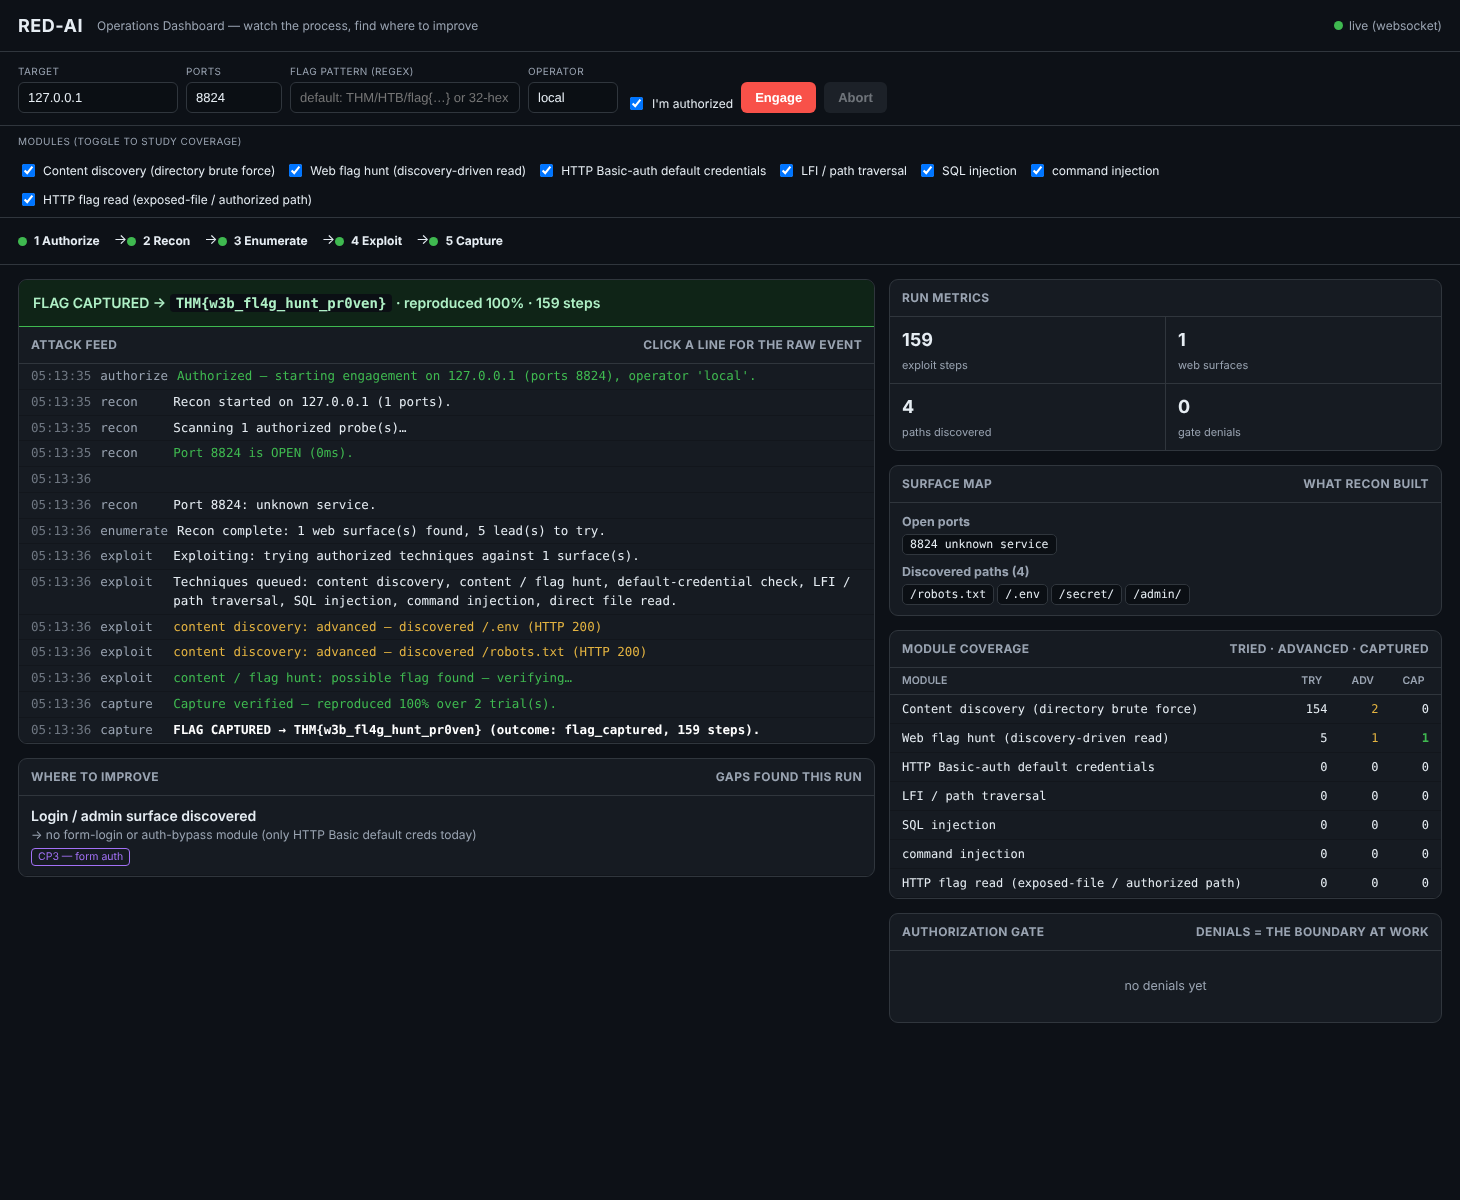
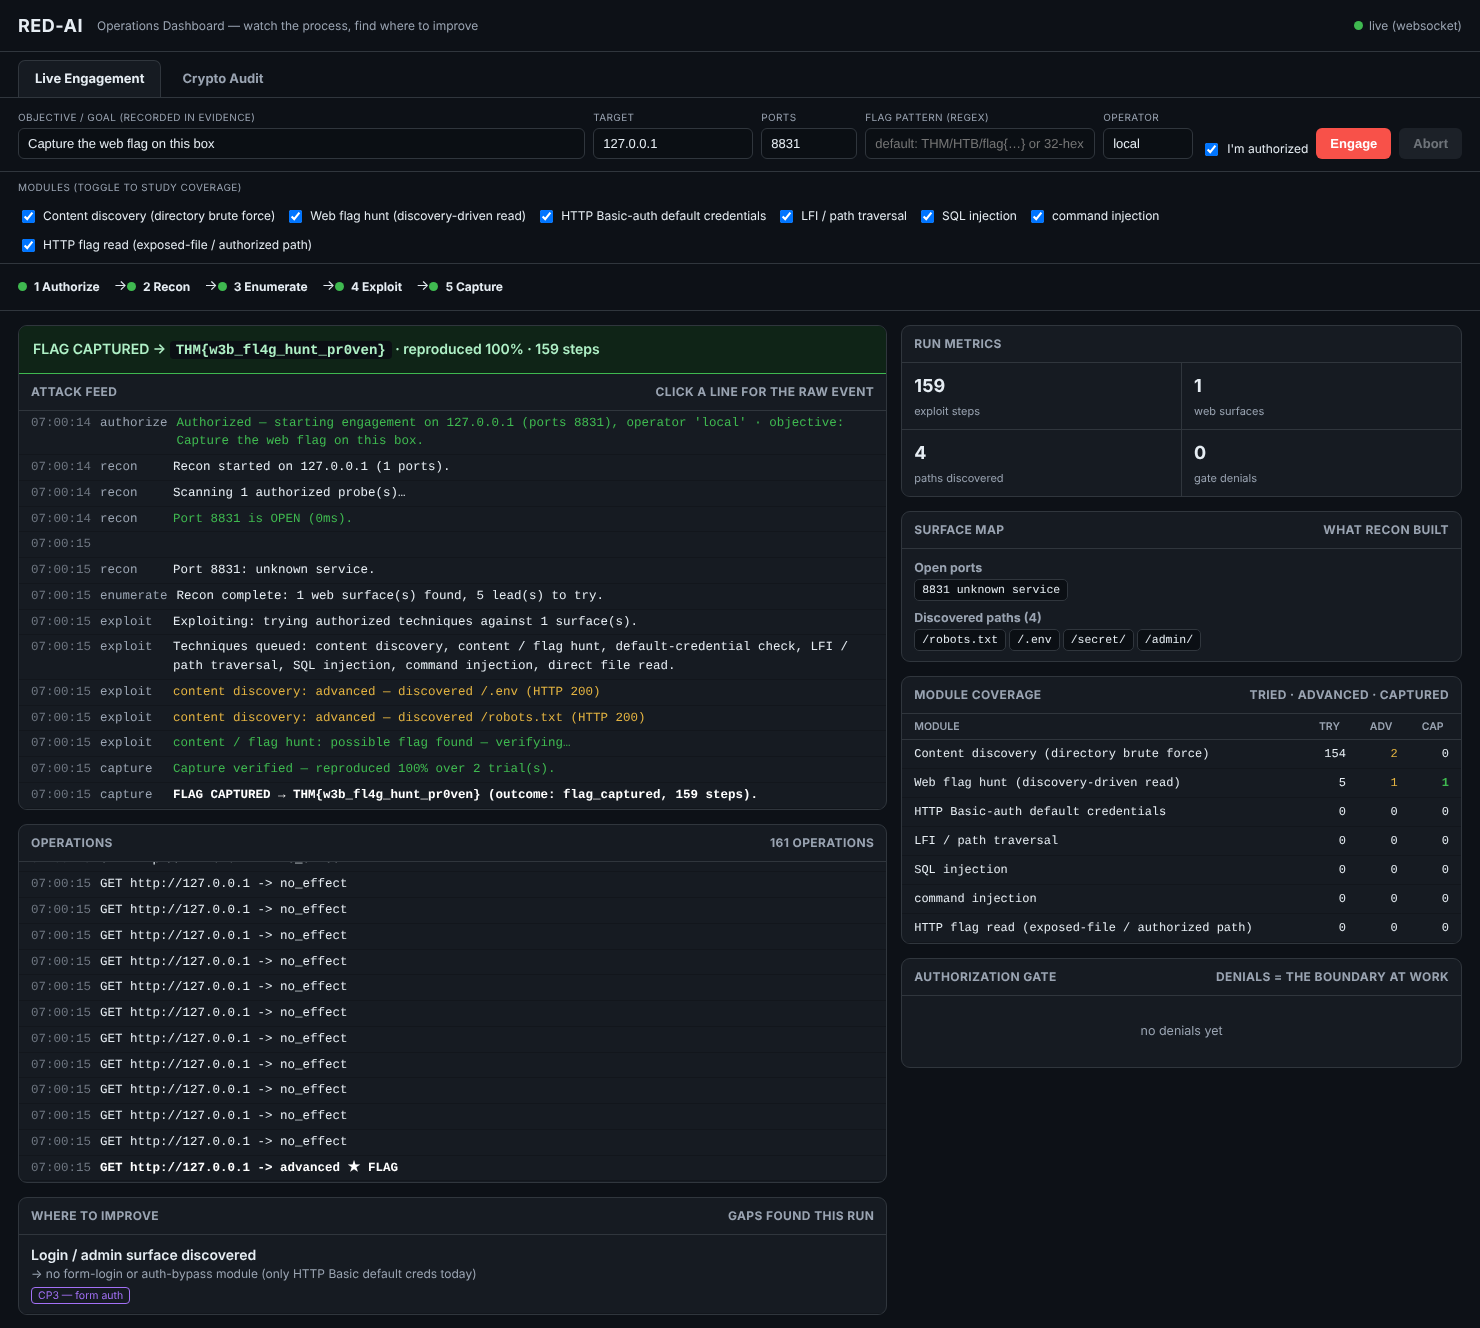
feat(web): end-to-end dashboard — Crypto Audit tab, objective input, operations log
Completes the dashboard as the one tool to run on your PC.

- Crypto Audit tab: paste ciphertext samples (hex/base64/raw) + optional RSA
  n/e/c, press Analyze, and the recovered plaintext renders as the proof — over
  the same WebSocket (action "crypto") with an /api/crypto polling fallback.
  Offline; only yields on misused crypto.
- Objective / goal field: free-text intent, recorded in the signed attestation
  and evidence (auditable) and shown in the feed. Context, not an autonomous
  planner — the pipeline stays deterministic.
- Operations log panel: the literal commands/requests RED-AI runs, live
  (tcp-connect host:port, GET http://host/path -> outcome, tls-handshake ...),
  so you monitor HOW it works, not just results. Shaper now also recovers the
  path from a step's observation so each op line shows the real URL.
- Two-tab layout (Live Engagement / Crypto Audit); objective threaded through
  engage_core -> hub -> annotate.

Proven end to end in a headless browser over WebSocket: ran an engagement (flag
captured, objective + 161 live operations shown) and a crypto audit (recovered a
card number from base64 and a password from single-byte XOR). 221 offline tests;
range still clears L1-L9, 0 false positives. Docs: docs/WEB_UI.md + screenshots.

Claude-Session: https://claude.ai/code/session_01Xv4sG4y6GM2Zx1LZuqMxqx

diff --git a/red_ai/web/dashboard.py b/red_ai/web/dashboard.py
@@ -71,13 +71,37 @@ DASHBOARD_HTML = r"""<!doctype html>
   .gap .c{display:inline-block;margin-top:3px;font-size:10.5px;color:var(--vi);border:1px solid var(--vi);
     border-radius:4px;padding:0 6px}
   .empty{color:var(--mu);padding:16px;text-align:center}
+  .tabs{display:flex;gap:4px;padding:8px 18px 0;border-bottom:1px solid var(--ln)}
+  .tab{padding:8px 16px;font-size:13px;font-weight:700;color:var(--mu);cursor:pointer;
+    border:1px solid transparent;border-bottom:none;border-radius:7px 7px 0 0}
+  .tab.on{color:var(--tx);background:var(--p);border-color:var(--ln)}
+  .cwrap{max-width:1100px;padding:16px 18px;display:grid;grid-template-columns:1fr 1fr;gap:14px}
+  @media(max-width:820px){.cwrap{grid-template-columns:1fr}}
+  textarea{width:100%;min-height:200px;background:var(--p2);border:1px solid var(--ln);color:var(--tx);
+    border-radius:7px;padding:10px;font-family:ui-monospace,Menlo,Consolas,monospace;font-size:12.5px;resize:vertical}
+  .rsa{display:flex;gap:8px;margin-top:8px} .rsa input{flex:1;min-width:0}
+  .cfind{border:1px solid var(--ln);border-radius:8px;margin:10px 12px;overflow:hidden}
+  .cfind .hd{padding:7px 10px;font-size:12px;display:flex;gap:8px;align-items:center;border-bottom:1px solid var(--ln)}
+  .sev{font-size:10px;font-weight:700;padding:1px 7px;border-radius:4px}
+  .sev.critical{background:#3d1416;color:#ffb0ab} .sev.high{background:#3a2a0c;color:#f0c674}
+  .sev.medium{background:#15243d;color:#9cc4ff}
+  .cfind .bd{padding:8px 10px;font-size:12.5px}
+  .recov{background:#0f2417;border:1px solid var(--gn);color:#aff0c6;border-radius:6px;padding:8px 10px;
+    margin:6px 0;font-family:ui-monospace,monospace;font-size:12.5px;word-break:break-word;white-space:pre-wrap}
+  .cfind .mu{color:var(--mu);font-size:11.5px;margin-top:3px}
 </style></head>
 <body>
 <header>
   <h1>RED-AI</h1><span class="sub">Operations Dashboard — watch the process, find where to improve</span>
   <span class="ws" id="wsind"><span class="d"></span><span id="wstxt">connecting…</span></span>
 </header>
+<div class="tabs">
+  <div class="tab on" id="tab-engage" onclick="showView('engage')">Live Engagement</div>
+  <div class="tab" id="tab-crypto" onclick="showView('crypto')">Crypto Audit</div>
+</div>
+<div id="view-engage">
 <div class="bar">
+  <div class="fld" style="flex:1 1 240px;min-width:200px"><label>Objective / goal (recorded in evidence)</label><input id="objective" type="text" placeholder="e.g. capture the web flag on this box"></div>
   <div class="fld"><label>Target</label><input id="target" type="text" placeholder="10.10.x.x"></div>
   <div class="fld"><label>Ports</label><input id="ports" type="text" value="1-1000"></div>
   <div class="fld"><label>Flag pattern (regex)</label><input id="flagpat" type="text" placeholder="default: THM/HTB/flag{…} or 32-hex"></div>
@@ -95,6 +119,10 @@ DASHBOARD_HTML = r"""<!doctype html>
       <div class="banner" id="banner"></div>
       <h3>Attack feed <span class="k" id="feedcount">click a line for the raw event</span></h3>
       <div class="feed" id="feed"><div class="empty">Enter a target and press Engage.</div></div>
+    </div>
+    <div class="card">
+      <h3>Operations <span class="k" id="opcount">the literal commands / requests RED-AI runs</span></h3>
+      <div class="feed" id="ops" style="max-height:320px"><div class="empty">each network operation RED-AI performs appears here, as it happens</div></div>
     </div>
     <div class="card">
       <h3>Where to improve <span class="k">gaps found this run</span></h3>
@@ -123,11 +151,35 @@ DASHBOARD_HTML = r"""<!doctype html>
     </div>
   </div>
 </div>
+</div><!-- view-engage -->
+
+<div id="view-crypto" hidden>
+  <div class="cwrap">
+    <div class="card">
+      <h3>Ciphertext samples <span class="k">one per line — hex, base64, or raw</span></h3>
+      <div style="padding:10px 12px">
+        <textarea id="samples" placeholder="Paste ciphertext samples, one per line.&#10;hex / base64 / raw text all accepted."></textarea>
+        <div class="rsa">
+          <input id="rn" type="text" placeholder="RSA n (optional)">
+          <input id="re" type="text" placeholder="e">
+          <input id="rc" type="text" placeholder="c">
+        </div>
+        <button id="analyze" style="margin-top:10px;background:var(--vi)">Analyze &amp; recover plaintext</button>
+        <p class="mu" style="color:var(--mu);font-size:12px;margin:8px 0 0">Offline, on your machine. Recovers plaintext only when the crypto is misused; correct AES-GCM / TLS 1.3 will not yield — that discipline is the point.</p>
+      </div>
+    </div>
+    <div class="card">
+      <h3>Result <span class="k">recovered plaintext is the proof</span></h3>
+      <div class="banner" id="cbanner"></div>
+      <div id="cfindings"><div class="empty">results appear here after you analyze</div></div>
+    </div>
+  </div>
+</div>
 
 <script>
 const STAGES=[["authorize","Authorize"],["recon","Recon"],["enumerate","Enumerate"],["exploit","Exploit"],["capture","Capture"]];
 const $=id=>document.getElementById(id);
-let ws=null, runId=null, roster=[], counters={}, ports={}, services={}, paths=new Set(), params=new Set(), denies=[], pollTimer=null, since=0;
+let ws=null, runId=null, roster=[], counters={}, ports={}, services={}, paths=new Set(), params=new Set(), denies=[], pollTimer=null, since=0, curTarget="", opN=0;
 
 // ---- stages ----
 $("stages").innerHTML=STAGES.map((s,i)=>`<div class="stage" data-s="${s[0]}"><span class="d"></span><b>${i+1} ${s[1]}</b></div>`+(i<4?'<span class="ar">→</span>':'')).join("");
@@ -147,6 +199,8 @@ function reset(){counters={};ports={};services={};paths=new Set();params=new Set
   $("feed").innerHTML="";$("banner").className="banner";$("gaps").className="gaps";$("gaps").innerHTML="";
   $("gapsempty").style.display="block";$("gate").innerHTML='<div class="empty">no denials yet</div>';
   $("surface").innerHTML='<div class="empty">scanning…</div>';
+  $("ops").innerHTML='<div class="empty">each network operation RED-AI performs appears here, as it happens</div>';
+  opN=0;$("opcount").textContent="the literal commands / requests RED-AI runs";
   ["m_steps","m_surf","m_paths","m_deny"].forEach(i=>$(i).textContent="0");
   document.querySelectorAll('.stage').forEach(el=>el.classList.remove('on','done'));
   roster.forEach(m=>{$("t_"+m.id).textContent="0";$("a_"+m.id).textContent="0";$("c_"+m.id).textContent="0";});}
@@ -167,9 +221,34 @@ function renderSurface(){let h="";
   if(params.size){h+='<div style="margin-top:8px"><b class="k">Parameters</b><br>'+[...params].map(p=>`<span class="chip">${p}</span>`).join("")+'</div>';}
   $("surface").innerHTML=h||'<div class="empty">nothing yet</div>';}
 
+// ---- operations log: the literal commands / requests RED-AI runs ----
+function opLine(rec){const d=rec.data||{},t=curTarget||"target";
+  if(rec.kind==="probe"&&d.state==="open")return `tcp-connect ${t}:${d.port}   -> open (${d.latency_ms}ms)`;
+  if(rec.kind==="web_enum")return `GET  http://${t}:${d.port}/   -> HTTP ${(d.root||{}).status}`;
+  if(rec.kind==="tls_posture")return `tls-handshake ${t}:${d.port}   [${(d.accepted||[]).join(', ')}]`;
+  if(rec.kind==="step"){const extra=(d.obs&&/via/.test(d.obs))?('  « '+d.obs+' »'):'';
+    return `GET  http://${t}${d.path||''}${extra}   -> ${d.outcome}${d.flag_claimed?'  ★ FLAG':''}`;}
+  return null;}
+function addOp(rec){const line=opLine(rec);if(!line)return;const o=$("ops");const e=o.querySelector('.empty');if(e)e.remove();
+  const row=document.createElement('div');row.className='r'+(rec.data&&rec.data.flag_claimed?' lv-flag':'');
+  row.innerHTML=`<span class="tm">${rec.t||''}</span><span class="tx"></span>`;row.querySelector('.tx').textContent=line;
+  o.appendChild(row);o.scrollTop=o.scrollHeight;opN++;$("opcount").textContent=opN+" operations";}
+
+// ---- views + crypto audit ----
+function showView(v){$("view-engage").hidden=v!=='engage';$("view-crypto").hidden=v!=='crypto';
+  $("tab-engage").classList.toggle('on',v==='engage');$("tab-crypto").classList.toggle('on',v==='crypto');}
+function renderCrypto(rep){const b=$("cbanner");b.className='banner '+(rep.broke?'flag':'warn');b.textContent=rep.verdict;
+  const el=$("cfindings");
+  if(!rep.findings.length){el.innerHTML='<div class="empty">No weakness demonstrated. (Absence of a break is NOT a proof of safety.)</div>';return;}
+  el.innerHTML=rep.findings.map(f=>`<div class="cfind"><div class="hd"><span class="sev ${f.severity}">${f.severity.toUpperCase()}</span><b>${f.class}</b><span class="mu">${f.method}</span></div>
+    <div class="bd">${f.recovered?'<div class="mu">RECOVERED PLAINTEXT (proof):</div><div class="recov"></div>':''}
+    <div class="mu">${f.evidence}</div><div class="mu">fix: ${f.remediation}</div><div class="mu">ref: ${f.reference}</div></div></div>`).join("");
+  const recs=rep.findings.filter(f=>f.recovered),nodes=el.querySelectorAll('.recov');
+  recs.forEach((f,i)=>{if(nodes[i])nodes[i].textContent=f.recovered;});}
+
 // ---- route one record ----
 function handle(rec){
-  addFeed(rec);const d=rec.data||{};
+  addFeed(rec);addOp(rec);const d=rec.data||{};
   if(rec.kind==="probe"&&d.state==="open"){ports[d.port]=1;renderSurface();}
   else if(rec.kind==="finding"){ports[d.port]=1;if(d.service)services[d.port]=d.service;renderSurface();}
   else if(rec.kind==="web_enum"){(d.paths||[]).forEach(p=>paths.add(p));(d.params||[]).forEach(p=>params.add(p));
@@ -205,6 +284,7 @@ function startWS(){try{ws=new WebSocket((location.protocol==="https:"?"wss://":"
     else if(m.type==="started"){runId=m.run;}
     else if(m.type==="event"){handle(m.rec);}
     else if(m.type==="done"){done(m.result,m.gaps);}
+    else if(m.type==="crypto_result"){renderCrypto(m.report);}
     else if(m.type==="error"){done({captured:false,outcome:m.error,steps:0},[]);}};}
 function fallback(){ // load modules over HTTP if WS never came up
   if(!roster.length)fetch("/api/modules").then(r=>r.json()).then(j=>{roster=j.modules;renderMods();});
@@ -217,13 +297,22 @@ function stopPoll(){if(pollTimer){clearInterval(pollTimer);pollTimer=null;}}
 $("go").onclick=()=>{const target=$("target").value.trim();
   if(!target)return alert("Enter a target IP or host.");
   if(!$("auth").checked)return alert("Confirm you are authorized to test this target.");
-  reset();$("go").disabled=true;$("stop").disabled=false;
-  const params={target,ports:$("ports").value.trim()||"1-1000",operator:$("operator").value.trim()||"local",
-    flag_pattern:$("flagpat").value.trim()||null,enabled_modules:enabledMods(),authorized:true};
+  reset();curTarget=target;$("go").disabled=true;$("stop").disabled=false;
+  const params={target,objective:$("objective").value.trim(),ports:$("ports").value.trim()||"1-1000",
+    operator:$("operator").value.trim()||"local",flag_pattern:$("flagpat").value.trim()||null,
+    enabled_modules:enabledMods(),authorized:true};
   if(ws&&ws.readyState===1){params.action="engage";ws.send(JSON.stringify(params));}
   else{fetch("/api/engage",{method:"POST",headers:{"Content-Type":"application/json"},body:JSON.stringify(params)})
     .then(r=>r.json()).then(j=>{if(j.error){done({captured:false,outcome:j.error,steps:0},[]);return;}runId=j.run_id;startPoll(j.run_id);});}};
 $("stop").onclick=()=>{if(ws&&ws.readyState===1)ws.send(JSON.stringify({action:"abort",run:runId}));};
+$("analyze").onclick=()=>{const samples=$("samples").value.split("\n").map(s=>s.trim()).filter(Boolean);
+  if(!samples.length)return alert("Paste at least one ciphertext sample.");
+  const rsa=($("rn").value.trim()&&$("re").value.trim()&&$("rc").value.trim())?
+    {n:$("rn").value.trim(),e:$("re").value.trim(),c:$("rc").value.trim()}:null;
+  $("cfindings").innerHTML='<div class="empty">analyzing…</div>';$("cbanner").className="banner";
+  if(ws&&ws.readyState===1){ws.send(JSON.stringify({action:"crypto",samples,rsa}));}
+  else{fetch("/api/crypto",{method:"POST",headers:{"Content-Type":"application/json"},body:JSON.stringify({samples,rsa})})
+    .then(r=>r.json()).then(j=>renderCrypto(j.report));}};
 
 startWS();
 // if WS didn't connect within 2s, make sure modules still load

diff --git a/red_ai/engage.py b/red_ai/engage.py
@@ -64,11 +64,16 @@ def engage_core(*, root, target, ports="80,8080,8000,8888,443",
                 flag_pattern=DEFAULT_FLAG_PATTERN, env="authorized_lab",
                 attestation="Authorized lab/CTF engagement (operator-attested).",
                 allow_production=False, max_steps=400, max_seconds=900,
-                operator=DEFAULT_OPERATOR, enabled_modules=(), on_event=None,
-                verbose=False) -> dict:
+                operator=DEFAULT_OPERATOR, enabled_modules=(), objective="",
+                on_event=None, verbose=False) -> dict:
     """Run one engagement. Returns a result dict (see keys at the bottom)."""
     root = Path(root)
     flag_pattern = flag_pattern or DEFAULT_FLAG_PATTERN   # None/empty -> default
+    # The operator's stated objective is recorded in the signed attestation (and
+    # the evidence), so a run's intent is auditable. It is context, not an
+    # autonomous planner: the pipeline stays deterministic.
+    if objective:
+        attestation = f"{attestation} | objective: {objective}"
 
     # --- authorization preconditions -------------------------------------
     keyring = Keyring(root)
@@ -97,7 +102,7 @@ def engage_core(*, root, target, ports="80,8080,8000,8888,443",
     valid_until = (now() + timedelta(hours=2)).isoformat()
 
     emit("engage_started", {"target": target, "ports": ports, "env": env,
-                            "operator": operator}, "engage")
+                            "operator": operator, "objective": objective}, "engage")
 
     # --- 1) RECON --------------------------------------------------------
     recon_scope = ReconScope.build(

diff --git a/red_ai/web/server.py b/red_ai/web/server.py
@@ -65,13 +65,17 @@ class _Handler(BaseHTTPRequestHandler):
 
     def do_POST(self):
         u = urlparse(self.path)
-        if u.path != "/api/engage":
+        if u.path not in ("/api/engage", "/api/crypto"):
             return self._send(404, {"error": "not found"})
         try:
             length = int(self.headers.get("Content-Length", 0))
             params = json.loads(self.rfile.read(length) or b"{}")
         except Exception:
             return self._send(400, {"error": "bad request body"})
+        if u.path == "/api/crypto":
+            from red_ai.crypto.analyze import analyze_samples
+            rep = analyze_samples(params.get("samples") or [], rsa=params.get("rsa"))
+            return self._send(200, {"report": rep})
         err = _validate(params)
         if err:
             return self._send(400, {"error": err})
@@ -110,6 +114,10 @@ class _Handler(BaseHTTPRequestHandler):
                     _HUB.start(m)
                 elif action == "abort":
                     _HUB.abort(m.get("run", ""))
+                elif action == "crypto":
+                    from red_ai.crypto.analyze import analyze_samples
+                    rep = analyze_samples(m.get("samples") or [], rsa=m.get("rsa"))
+                    conn.send(json.dumps({"type": "crypto_result", "report": rep}))
                 elif action == "ping":
                     conn.send(json.dumps({"type": "pong"}))
         finally:

diff --git a/red_ai/web/shaper.py b/red_ai/web/shaper.py
@@ -12,6 +12,8 @@ checkpoint it belongs to. That is the signal for where to improve the engine.
 """
 from __future__ import annotations
 
+import re
+
 from red_ai.web.annotate import annotate
 
 # Non-web services worth calling out as "found, but no capability yet".
@@ -69,6 +71,11 @@ def shape_event(ev: dict) -> dict:
             # "discovered /x (HTTP 200)" -> /x
             rest = proves.split(" ", 1)[1]
             path = rest.split(" ", 1)[0]
+        if not path:
+            # most step observations carry the path, e.g. "HTTP 404 /secret"
+            m = re.search(r"(/\S*)", proves or obs0 or "")
+            if m:
+                path = m.group(1).rstrip(".,);")
         data = {"module": p.get("module"), "outcome": p.get("outcome"),
                 "flag_claimed": p.get("flag_claimed"), "proves": proves,
                 "obs": obs0, "path": path}

diff --git a/red_ai/web/annotate.py b/red_ai/web/annotate.py
@@ -30,9 +30,10 @@ def annotate(ev: dict) -> "dict | None":
 
     # --- engage-level phase markers (synthetic) --------------------------
     if kind == "engage_started":
+        obj = f" · objective: {p.get('objective')}" if p.get("objective") else ""
         return _line("authorize", "good",
                      f"Authorized — starting engagement on {p.get('target')} "
-                     f"(ports {p.get('ports')}), operator '{p.get('operator')}'.")
+                     f"(ports {p.get('ports')}), operator '{p.get('operator')}'{obj}.")
     if kind == "recon_done":
         return _line("enumerate", "info",
                      f"Recon complete: {p.get('web_surfaces', 0)} web surface(s) found, "

diff --git a/red_ai/web/hub.py b/red_ai/web/hub.py
@@ -80,6 +80,7 @@ class Hub:
                 attestation=params["attestation"],
                 operator=params.get("operator", "local"),
                 enabled_modules=tuple(params.get("enabled_modules") or ()),
+                objective=params.get("objective", ""),
                 on_event=on_event)
             gaps = gap_analysis(res)
             summary = {"status": res["status"], "captured": res["captured"],

diff --git a/docs/WEB_UI.md b/docs/WEB_UI.md
@@ -11,12 +11,20 @@ the VPN); the browser is only the window.
 
 ![dashboard](dashboard.png)
 
-## Running it
+## Running it on your PC
 
 ```bash
+git clone https://github.com/Haryshwa29/Red-AI.git   # once
 cd Red-AI
-python -m red_ai web            # → http://127.0.0.1:8787
+python -m red_ai web            # → open http://127.0.0.1:8787
 ```
+
+No installs — pure Python standard library. It runs on the machine that can reach
+the target (on the VPN for a lab box). The dashboard has **two tabs**:
+
+- **Live Engagement** — drive an engagement against a target and watch it work.
+- **Crypto Audit** — paste ciphertext samples and recover plaintext as proof of
+  weak encryption (offline; see [`CRYPTO.md`](CRYPTO.md)).
 
 Enter the target IP, tick **I'm authorized**, press **Engage**. Streaming is over
 WebSocket (status shown top-right); if the WebSocket can't open it falls back to
@@ -25,6 +33,14 @@ warning if you bind anywhere but localhost.
 
 ## What each panel tells you
 
+- **Objective / goal** — a free-text field for the engagement's intent. It is
+  recorded in the signed attestation (and the evidence) so a run's purpose is
+  auditable, and it shows at the top of the feed. It is context, not an autonomous
+  planner — the pipeline stays deterministic.
+- **Operations log** — the literal commands/requests RED-AI runs, as they happen
+  (`tcp-connect host:port → open`, `GET http://host/path → outcome`,
+  `tls-handshake host:port [protocols]`). This is the "how": you watch every
+  network operation, not just the summary.
 - **Control bar** — target, ports (default `1-1000` so recon finds the web port
   itself), an optional flag-pattern regex, operator, and the authorization tick.
 - **Module toggles** — turn individual exploit modules on/off and re-run to study
@@ -46,6 +62,14 @@ warning if you bind anywhere but localhost.
   could not use* (an open SSH port, a login form, parameters it couldn't break)
   mapped to the missing capability and the checkpoint it belongs to. This turns a
   `no_breach` into a concrete next build.
+
+## Crypto Audit tab
+
+Paste ciphertext samples (one per line — hex, base64, or raw), optionally RSA
+`n`/`e`/`c`, and press **Analyze**. RED-AI runs the crypto-misuse battery offline
+and shows each finding with the **recovered plaintext** highlighted — the hard
+proof. It only recovers when the crypto is misused; correct AES-GCM / TLS 1.3
+returns "no demonstrable break" (not a proof of safety). See [`CRYPTO.md`](CRYPTO.md).
 
 ## Security (unchanged, and important)
 
